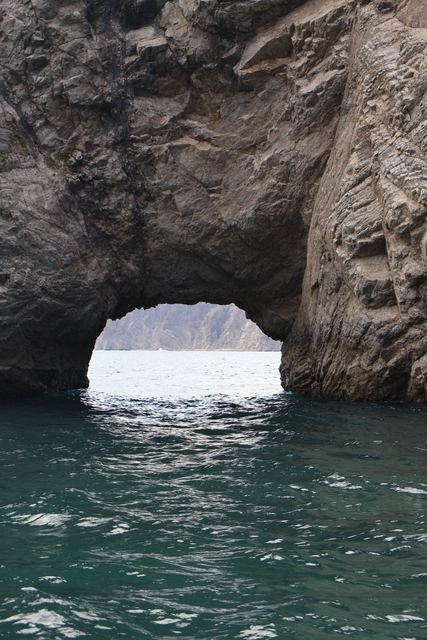
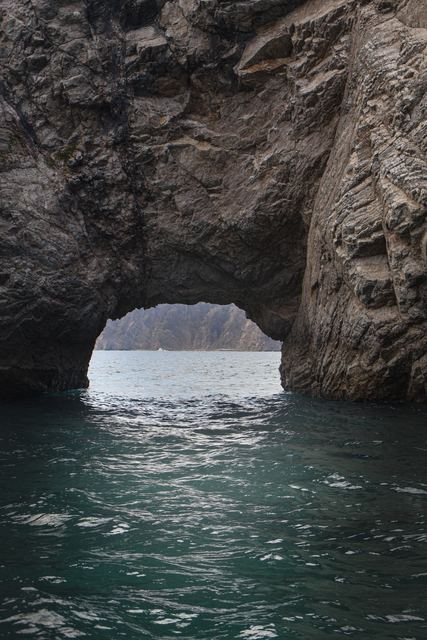
Obras nuevas (Agua-rela 2, Ciudad Emblemática) y foto nueva de Permeable
Claude-Session: https://claude.ai/code/session_01XampmMridXLsrxnCMyLnPp

diff --git a/index.html b/index.html
@@ -353,7 +353,7 @@ footer.bottom{padding:24px clamp(16px,3vw,48px) calc(24px + env(safe-area-inset-
   <button class="pv" id="lbPv" aria-label="Foto anterior"><svg width="20" height="20" viewBox="0 0 24 24" fill="none" stroke="currentColor" stroke-width="1.8" stroke-linecap="round" stroke-linejoin="round" aria-hidden="true"><path d="M15 6l-6 6 6 6"/></svg></button>
   <button class="nx" id="lbNx" aria-label="Foto siguiente"><svg width="20" height="20" viewBox="0 0 24 24" fill="none" stroke="currentColor" stroke-width="1.8" stroke-linecap="round" stroke-linejoin="round" aria-hidden="true"><path d="M9 6l6 6-6 6"/></svg></button>
 </div>
-<script id="data" type="application/json">{"works": [{"id": "ejemplo", "t": "Hojitas", "serie": "Jardin Mágico", "year": 2026, "when": "Primavera", "place": "Tigre, Buenos Aires, Argentina", "short": "Tigre", "country": "Argentina", "region": "Buenos Aires", "lat": -34.4264, "lon": -58.5796, "coords": "34°26′S 58°35′O", "fmt": "h", "ar": 1.5, "img": "img/img-8170.jpg", "sm": "img/img-8170-sm.jpg", "edge": "#1e1f12", "edgeD": "#18180e", "tones": ["verde"], "moods": ["calma", "movimiento"], "text": "", "story": ""}, {"id": "7m99oodxvws98zthk22s", "t": "Flore-SER", "serie": "Jardin Mágico", "year": 2026, "when": "Primavera", "place": "Tigre, Buenos Aires, Argentina", "short": "Tigre", "country": "Argentina", "region": "Buenos Aires", "lat": -34.4264, "lon": -58.5796, "coords": "34°26′S 58°35′O", "fmt": "h", "ar": 1.5, "img": "img/img-8211.jpg", "sm": "img/img-8211-sm.jpg", "edge": "#171514", "edgeD": "#121010", "tones": ["oscuro", "magenta"], "moods": ["movimiento"], "text": "Creciendo, en constante movimiento.", "story": ""}, {"id": "v6zu1fnsragvl1bk6tf3", "t": "Espíritu", "serie": "Jardin Mágico", "year": 2026, "when": "Primavera", "place": "Tigre, Buenos Aires, Argentina", "short": "Tigre", "country": "Argentina", "region": "Buenos Aires", "lat": -34.4264, "lon": -58.5796, "coords": "34°26′S 58°35′O", "fmt": "h", "ar": 1.5, "img": "img/img-8150.jpg", "sm": "img/img-8150-sm.jpg", "edge": "#131311", "edgeD": "#0f0f0d", "tones": ["oscuro"], "moods": ["movimiento"], "text": "", "story": ""}, {"id": "5v5q9rmd4a7l716ln7lj", "t": "Arcoiris", "serie": "Atardecer", "year": 2026, "when": "Atardecer", "place": "Santa Teresa, Costa Rica", "short": "Santa Teresa", "country": "Costa Rica", "region": "Costa Rica", "lat": 9.6436, "lon": -85.1683, "coords": "9°39′N 85°10′O", "fmt": "h", "ar": 1.5, "img": "img/img-4581.jpg", "sm": "img/img-4581-sm.jpg", "edge": "#a7675b", "edgeD": "#855248", "tones": ["cálido"], "moods": ["calma"], "text": "Observando, somos creadores de la obra", "story": ""}, {"id": "tcfef9lt981iuam9v10g", "t": "Expansión Naranja", "serie": "Atardecer", "year": 2026, "when": "", "place": "Santa Teresa, Costa Rica", "short": "Santa Teresa", "country": "Costa Rica", "region": "Costa Rica", "lat": 9.6436, "lon": -85.1683, "coords": "9°39′N 85°10′O", "fmt": "v", "ar": 0.6667, "img": "img/img-5085.jpg", "sm": "img/img-5085-sm.jpg", "edge": "#744016", "edgeD": "#5c3311", "tones": ["cálido"], "moods": ["calma"], "text": "", "story": ""}, {"id": "v93yowcrwlio0occ4g5k", "t": "Inmersos", "serie": "Atardecer", "year": null, "when": "", "place": "Playa Venao, Panamá", "short": "Playa Venao", "country": "Panamá", "region": "Panamá", "lat": 7.4337, "lon": -80.1914, "coords": "7°26′N 80°11′O", "fmt": "v", "ar": 0.6667, "img": "img/img-2910.jpg", "sm": "img/img-2910-sm.jpg", "edge": "#4d270b", "edgeD": "#3d1f08", "tones": ["cálido"], "moods": ["calma"], "text": "", "story": ""}, {"id": "wu83h3kot0ow2doi3nze", "t": "Infinidad Acuatica", "serie": "Mar", "year": null, "when": "", "place": "San Blas, Panamá", "short": "San Blas", "country": "Panamá", "region": "Panamá", "lat": 9.5594, "lon": -78.9481, "coords": "9°34′N 78°57′O", "fmt": "h", "ar": 1.5, "img": "img/img-2301.jpg", "sm": "img/img-2301-sm.jpg", "edge": "#5a646e", "edgeD": "#485058", "tones": ["azul"], "moods": ["inmensidad", "nostalgia"], "text": "", "story": ""}, {"id": "d8xsnhwkibspm1gs7ye7", "t": "Infimos", "serie": "Mar", "year": 2025, "when": "", "place": "San Francisco, California, EE.UU.", "short": "San Francisco", "country": "Estados Unidos", "region": "California", "lat": 37.7599, "lon": -122.5107, "coords": "37°46′N 122°31′O", "fmt": "v", "ar": 0.6667, "img": "img/img-1695.jpg", "sm": "img/img-1695-sm.jpg", "edge": "#5f6669", "edgeD": "#4c5154", "tones": ["azul"], "moods": ["inmensidad"], "text": "Bailar con confianza, ante tanta inmensidad.", "story": ""}, {"id": "segvv79u0fh8eog51isr", "t": "Navegar", "serie": "Mar", "year": 2026, "when": "", "place": "San Blas, Panamá", "short": "San Blas", "country": "Panamá", "region": "Panamá", "lat": 9.5594, "lon": -78.9481, "coords": "9°34′N 78°57′O", "fmt": "v", "ar": 0.6667, "img": "img/img-2220.jpg", "sm": "img/img-2220-sm.jpg", "edge": "#8a9db3", "edgeD": "#6e7d8f", "tones": ["azul"], "moods": ["nostalgia"], "text": "", "story": ""}, {"id": "l3hwykl52erjsmdvd342", "t": "Huellas", "serie": "Playa", "year": null, "when": "", "place": "Puerto Viejo, Costa Rica", "short": "Puerto Viejo", "country": "Costa Rica", "region": "Costa Rica", "lat": 9.6563, "lon": -82.7539, "coords": "9°39′N 82°45′O", "fmt": "v", "ar": 0.6667, "img": "img/img-2618.jpg", "sm": "img/img-2618-sm.jpg", "edge": "#817d79", "edgeD": "#676460", "tones": ["arena"], "moods": ["silencio"], "text": "", "story": ""}, {"id": "2hh2komrnwdbq5esv0x3", "t": "Evolución", "serie": "Portal", "year": null, "when": "", "place": "Playa Venao, Panamá", "short": "Playa Venao", "country": "Panamá", "region": "Panamá", "lat": 7.4337, "lon": -80.1914, "coords": "7°26′N 80°11′O", "fmt": "h", "ar": 1.5, "img": "img/img-2631.jpg", "sm": "img/img-2631-sm.jpg", "edge": "#3f3935", "edgeD": "#322d2a", "tones": ["oscuro"], "moods": ["silencio"], "text": "", "story": ""}, {"id": "1cru13s1yb15cx7n9nme", "t": "Versiones que conviven", "serie": "Postal", "year": null, "when": "", "place": "Río de Janeiro, Brasil", "short": "Río de Janeiro", "country": "Brasil", "region": "Brasil", "lat": -22.9068, "lon": -43.1729, "coords": "22°54′S 43°10′O", "fmt": "h", "ar": 1.5, "img": "img/img-6921.jpg", "sm": "img/img-6921-sm.jpg", "edge": "#47494d", "edgeD": "#383a3d", "tones": ["oscuro"], "moods": ["silencio"], "text": "", "story": ""}, {"id": "6kw532zf5z31ys35lora", "t": "Tantos ángulos", "serie": "Postal", "year": null, "when": "", "place": "Golden Gate, California, EE.UU.", "short": "Golden Gate", "country": "Estados Unidos", "region": "California", "lat": 37.8199, "lon": -122.4783, "coords": "37°49′N 122°29′O", "fmt": "v", "ar": 0.6667, "img": "img/img-1708.jpg", "sm": "img/img-1708-sm.jpg", "edge": "#575658", "edgeD": "#454446", "tones": ["cálido"], "moods": ["calma", "inmensidad", "nostalgia"], "text": "", "story": ""}, {"id": "krk9gi2kcvnhruij2sq1", "t": "Permeable", "serie": "Portal", "year": null, "when": "", "place": "Isla Tortuga, Costa Rica", "short": "Isla Tortuga", "country": "Costa Rica", "region": "Costa Rica", "lat": 9.7736, "lon": -84.8895, "coords": "9°46′N 84°53′O", "fmt": "v", "ar": 0.6667, "img": "img/img-3407.jpg", "sm": "img/img-3407-sm.jpg", "edge": "#525554", "edgeD": "#414443", "tones": ["azul"], "moods": [], "text": "", "story": ""}, {"id": "wno9w0kaa0o40x0wevrn", "t": "Agua-rela", "serie": "Agua", "year": null, "when": "", "place": "Tigre, Buenos Aires, Argentina", "short": "Tigre", "country": "Argentina", "region": "Buenos Aires", "lat": -34.4264, "lon": -58.5796, "coords": "34°26′S 58°35′O", "fmt": "h", "ar": 1.5, "img": "img/img-8106.jpg", "sm": "img/img-8106-sm.jpg", "edge": "#8e636e", "edgeD": "#714f58", "tones": ["magenta"], "moods": [], "text": "", "story": ""}, {"id": "nv7otj81e26y8iph5oax", "t": "Pausa Rutera", "serie": "Montaña", "year": 2026, "when": "", "place": "Tafí del Valle, Tucumán, Argentina", "short": "Tafí del Valle", "country": "Argentina", "region": "Tucumán", "lat": -26.8527, "lon": -65.7098, "coords": "26°51′S 65°43′O", "fmt": "h", "ar": 1.5, "img": "img/img-6454.jpg", "sm": "img/img-6454-sm.jpg", "edge": "#667b8f", "edgeD": "#516272", "tones": ["cálido"], "moods": ["silencio"], "text": "Me encanta el impulso de las balizas y frenar en ese km", "story": ""}, {"id": "36y1cy4sliuee3xus6vy", "t": "Paraíso Vintage", "serie": "Postal", "year": null, "when": "", "place": "Santa Teresa, Costa Rica", "short": "Santa Teresa", "country": "Costa Rica", "region": "Costa Rica", "lat": 9.6436, "lon": -85.1683, "coords": "9°39′N 85°10′O", "fmt": "h", "ar": 1.5, "img": "img/img-4106.jpg", "sm": "img/img-4106-sm.jpg", "edge": "#9d9d9d", "edgeD": "#7d7d7d", "tones": ["oscuro"], "moods": [], "text": "", "story": ""}], "config": {"name": "Josefina Goñi", "bio": "El atlas de mi viaje evolutivo, captura diversos rincones del mundo que me resonaron alguna vez.\nUn pedacito del mundo en mi mapa personal.", "whatsapp": "+5491153483183", "instagram": "josefinagoni__", "email": "josefinagoni02@gmail.com", "tagline": ""}, "sets": [{"name": "Díptico Jardin Mágico", "desc": "Hojitas + Flore-SER · horizontal 75×50", "works": [0, 1], "orient": "h", "frame": "negro", "mat": "sin"}, {"name": "Díptico Atardecer", "desc": "Expansión Naranja + Inmersos · vertical 50×75", "works": [4, 5], "orient": "v", "frame": "roble", "mat": "blanco"}], "tones": [{"id": null, "label": "Todos los tonos", "c": "conic-gradient(#4f7f95,#c9ae83,#c9683f,#a8437a,#6f8a5a,#26303a,#d9dedb,#4f7f95)"}, {"id": "azul", "label": "Azul", "c": "#4f7f95"}, {"id": "arena", "label": "Arena", "c": "#c9ae83"}, {"id": "cálido", "label": "Cálido", "c": "#c9683f"}, {"id": "magenta", "label": "Magenta", "c": "#a8437a"}, {"id": "verde", "label": "Verde", "c": "#6f8a5a"}, {"id": "oscuro", "label": "Oscuro", "c": "#26303a"}], "extent": {"lat0": 46, "lat1": -44, "lon0": -132.51069999999999, "lon1": -33.1729}, "oceans": [{"name": "Océano Pacífico", "lat": -8, "lon": -112}, {"name": "Océano Atlántico", "lat": 24, "lon": -68}]}</script>
+<script id="data" type="application/json">{"works": [{"id": "ejemplo", "t": "Hojitas", "serie": "Jardin Mágico", "year": 2026, "when": "Primavera", "place": "Tigre, Buenos Aires, Argentina", "short": "Tigre", "country": "Argentina", "region": "Buenos Aires", "lat": -34.4264, "lon": -58.5796, "coords": "34°26′S 58°35′O", "fmt": "h", "ar": 1.5, "img": "img/img-8170.jpg", "sm": "img/img-8170-sm.jpg", "edge": "#1e1f12", "edgeD": "#18180e", "tones": ["verde"], "moods": ["calma", "movimiento"], "text": "", "story": ""}, {"id": "7m99oodxvws98zthk22s", "t": "Flore-SER", "serie": "Jardin Mágico", "year": 2026, "when": "Primavera", "place": "Tigre, Buenos Aires, Argentina", "short": "Tigre", "country": "Argentina", "region": "Buenos Aires", "lat": -34.4264, "lon": -58.5796, "coords": "34°26′S 58°35′O", "fmt": "h", "ar": 1.5, "img": "img/img-8211.jpg", "sm": "img/img-8211-sm.jpg", "edge": "#171514", "edgeD": "#121010", "tones": ["oscuro", "magenta"], "moods": ["movimiento"], "text": "Creciendo, en constante movimiento.", "story": ""}, {"id": "v6zu1fnsragvl1bk6tf3", "t": "Espíritu", "serie": "Jardin Mágico", "year": 2026, "when": "Primavera", "place": "Tigre, Buenos Aires, Argentina", "short": "Tigre", "country": "Argentina", "region": "Buenos Aires", "lat": -34.4264, "lon": -58.5796, "coords": "34°26′S 58°35′O", "fmt": "h", "ar": 1.5, "img": "img/img-8150.jpg", "sm": "img/img-8150-sm.jpg", "edge": "#131311", "edgeD": "#0f0f0d", "tones": ["oscuro"], "moods": ["movimiento"], "text": "", "story": ""}, {"id": "5v5q9rmd4a7l716ln7lj", "t": "Arcoiris", "serie": "Atardecer", "year": 2026, "when": "Atardecer", "place": "Santa Teresa, Costa Rica", "short": "Santa Teresa", "country": "Costa Rica", "region": "Costa Rica", "lat": 9.6436, "lon": -85.1683, "coords": "9°39′N 85°10′O", "fmt": "h", "ar": 1.5, "img": "img/img-4581.jpg", "sm": "img/img-4581-sm.jpg", "edge": "#a7675b", "edgeD": "#855248", "tones": ["cálido"], "moods": ["calma"], "text": "Observando, somos creadores de la obra", "story": ""}, {"id": "tcfef9lt981iuam9v10g", "t": "Expansión Naranja", "serie": "Atardecer", "year": 2026, "when": "", "place": "Santa Teresa, Costa Rica", "short": "Santa Teresa", "country": "Costa Rica", "region": "Costa Rica", "lat": 9.6436, "lon": -85.1683, "coords": "9°39′N 85°10′O", "fmt": "v", "ar": 0.6667, "img": "img/img-5085.jpg", "sm": "img/img-5085-sm.jpg", "edge": "#744016", "edgeD": "#5c3311", "tones": ["cálido"], "moods": ["calma"], "text": "", "story": ""}, {"id": "v93yowcrwlio0occ4g5k", "t": "Inmersos", "serie": "Atardecer", "year": null, "when": "", "place": "Playa Venao, Panamá", "short": "Playa Venao", "country": "Panamá", "region": "Panamá", "lat": 7.4337, "lon": -80.1914, "coords": "7°26′N 80°11′O", "fmt": "v", "ar": 0.6667, "img": "img/img-2910.jpg", "sm": "img/img-2910-sm.jpg", "edge": "#4d270b", "edgeD": "#3d1f08", "tones": ["cálido"], "moods": ["calma"], "text": "", "story": ""}, {"id": "wu83h3kot0ow2doi3nze", "t": "Infinidad Acuatica", "serie": "Mar", "year": null, "when": "", "place": "San Blas, Panamá", "short": "San Blas", "country": "Panamá", "region": "Panamá", "lat": 9.5594, "lon": -78.9481, "coords": "9°34′N 78°57′O", "fmt": "h", "ar": 1.5, "img": "img/img-2301.jpg", "sm": "img/img-2301-sm.jpg", "edge": "#5a646e", "edgeD": "#485058", "tones": ["azul"], "moods": ["inmensidad", "nostalgia"], "text": "", "story": ""}, {"id": "d8xsnhwkibspm1gs7ye7", "t": "Infimos", "serie": "Mar", "year": 2025, "when": "", "place": "San Francisco, California, EE.UU.", "short": "San Francisco", "country": "Estados Unidos", "region": "California", "lat": 37.7599, "lon": -122.5107, "coords": "37°46′N 122°31′O", "fmt": "v", "ar": 0.6667, "img": "img/img-1695.jpg", "sm": "img/img-1695-sm.jpg", "edge": "#5f6669", "edgeD": "#4c5154", "tones": ["azul"], "moods": ["inmensidad"], "text": "Bailar con confianza, ante tanta inmensidad.", "story": ""}, {"id": "segvv79u0fh8eog51isr", "t": "Navegar", "serie": "Mar", "year": 2026, "when": "", "place": "San Blas, Panamá", "short": "San Blas", "country": "Panamá", "region": "Panamá", "lat": 9.5594, "lon": -78.9481, "coords": "9°34′N 78°57′O", "fmt": "v", "ar": 0.6667, "img": "img/img-2220.jpg", "sm": "img/img-2220-sm.jpg", "edge": "#8a9db3", "edgeD": "#6e7d8f", "tones": ["azul"], "moods": ["nostalgia"], "text": "", "story": ""}, {"id": "l3hwykl52erjsmdvd342", "t": "Huellas", "serie": "Playa", "year": null, "when": "", "place": "Puerto Viejo, Costa Rica", "short": "Puerto Viejo", "country": "Costa Rica", "region": "Costa Rica", "lat": 9.6563, "lon": -82.7539, "coords": "9°39′N 82°45′O", "fmt": "v", "ar": 0.6667, "img": "img/img-2618.jpg", "sm": "img/img-2618-sm.jpg", "edge": "#817d79", "edgeD": "#676460", "tones": ["arena"], "moods": ["silencio"], "text": "", "story": ""}, {"id": "2hh2komrnwdbq5esv0x3", "t": "Evolución", "serie": "Portal", "year": null, "when": "", "place": "Playa Venao, Panamá", "short": "Playa Venao", "country": "Panamá", "region": "Panamá", "lat": 7.4337, "lon": -80.1914, "coords": "7°26′N 80°11′O", "fmt": "h", "ar": 1.5, "img": "img/img-2631.jpg", "sm": "img/img-2631-sm.jpg", "edge": "#3f3935", "edgeD": "#322d2a", "tones": ["oscuro"], "moods": ["silencio"], "text": "", "story": ""}, {"id": "1cru13s1yb15cx7n9nme", "t": "Versiones que conviven", "serie": "Postal", "year": null, "when": "", "place": "Río de Janeiro, Brasil", "short": "Río de Janeiro", "country": "Brasil", "region": "Brasil", "lat": -22.9068, "lon": -43.1729, "coords": "22°54′S 43°10′O", "fmt": "h", "ar": 1.5, "img": "img/img-6921.jpg", "sm": "img/img-6921-sm.jpg", "edge": "#47494d", "edgeD": "#383a3d", "tones": ["oscuro"], "moods": ["silencio"], "text": "", "story": ""}, {"id": "6kw532zf5z31ys35lora", "t": "Tantos ángulos", "serie": "Postal", "year": null, "when": "", "place": "Golden Gate, California, EE.UU.", "short": "Golden Gate", "country": "Estados Unidos", "region": "California", "lat": 37.8199, "lon": -122.4783, "coords": "37°49′N 122°29′O", "fmt": "v", "ar": 0.6667, "img": "img/img-1708.jpg", "sm": "img/img-1708-sm.jpg", "edge": "#575658", "edgeD": "#454446", "tones": ["cálido"], "moods": ["calma", "inmensidad", "nostalgia"], "text": "", "story": ""}, {"id": "krk9gi2kcvnhruij2sq1", "t": "Permeable", "serie": "Portal", "year": null, "when": "", "place": "Isla Tortuga, Costa Rica", "short": "Isla Tortuga", "country": "Costa Rica", "region": "Costa Rica", "lat": 9.7736, "lon": -84.8895, "coords": "9°46′N 84°53′O", "fmt": "v", "ar": 0.6667, "img": "img/img-3407.jpg", "sm": "img/img-3407-sm.jpg", "edge": "#474948", "edgeD": "#383a39", "tones": ["azul"], "moods": [], "text": "", "story": ""}, {"id": "wno9w0kaa0o40x0wevrn", "t": "Agua-rela", "serie": "Agua", "year": null, "when": "", "place": "Tigre, Buenos Aires, Argentina", "short": "Tigre", "country": "Argentina", "region": "Buenos Aires", "lat": -34.4264, "lon": -58.5796, "coords": "34°26′S 58°35′O", "fmt": "h", "ar": 1.5, "img": "img/img-8106.jpg", "sm": "img/img-8106-sm.jpg", "edge": "#8e636e", "edgeD": "#714f58", "tones": ["magenta"], "moods": [], "text": "", "story": ""}, {"id": "nv7otj81e26y8iph5oax", "t": "Pausa Rutera", "serie": "Montaña", "year": 2026, "when": "", "place": "Tafí del Valle, Tucumán, Argentina", "short": "Tafí del Valle", "country": "Argentina", "region": "Tucumán", "lat": -26.8527, "lon": -65.7098, "coords": "26°51′S 65°43′O", "fmt": "h", "ar": 1.5, "img": "img/img-6454.jpg", "sm": "img/img-6454-sm.jpg", "edge": "#667b8f", "edgeD": "#516272", "tones": ["cálido"], "moods": ["silencio"], "text": "Me encanta el impulso de las balizas y frenar en ese km", "story": ""}, {"id": "36y1cy4sliuee3xus6vy", "t": "Paraíso Vintage", "serie": "Postal", "year": null, "when": "", "place": "Santa Teresa, Costa Rica", "short": "Santa Teresa", "country": "Costa Rica", "region": "Costa Rica", "lat": 9.6436, "lon": -85.1683, "coords": "9°39′N 85°10′O", "fmt": "h", "ar": 1.5, "img": "img/img-4106.jpg", "sm": "img/img-4106-sm.jpg", "edge": "#9d9d9d", "edgeD": "#7d7d7d", "tones": ["oscuro"], "moods": [], "text": "", "story": ""}, {"id": "9xvunk0iii1dsx0mnog8", "t": "Agua-rela", "serie": "Agua", "year": 2026, "when": "", "place": "Tigre, Buenos Aires, Argentina", "short": "Tigre", "country": "Argentina", "region": "Buenos Aires", "lat": -34.4264, "lon": -58.5796, "coords": "34°26′S 58°35′O", "fmt": "h", "ar": 1.5, "img": "img/img-8106-4.jpg", "sm": "img/img-8106-4-sm.jpg", "edge": "#3b3b3b", "edgeD": "#2f2f2f", "tones": ["oscuro"], "moods": [], "text": "", "story": ""}, {"id": "kypawh97mbgtj49nok9p", "t": "Ciudad Emblemática", "serie": "Postal", "year": 2026, "when": "", "place": "Obelisco, Buenos Aires, Argentina", "short": "Obelisco", "country": "Argentina", "region": "Buenos Aires", "lat": -34.6037, "lon": -58.3816, "coords": "34°36′S 58°23′O", "fmt": "v", "ar": 0.6666, "img": "img/img-8616.jpg", "sm": "img/img-8616-sm.jpg", "edge": "#393939", "edgeD": "#2d2d2d", "tones": ["oscuro"], "moods": [], "text": "Entre tanta novedad, historia y movimiento, soy turista de mi icónica ciudad natal.", "story": ""}], "config": {"name": "Josefina Goñi", "bio": "El atlas de mi viaje evolutivo, captura diversos rincones del mundo que me resonaron alguna vez. \nUn pedacito del mundo en mi mapa personal. ", "whatsapp": "+5491153483183", "instagram": "josefinagoni__", "email": "josefinagoni02@gmail.com", "tagline": ""}, "sets": [{"name": "Díptico Jardin Mágico", "desc": "Hojitas + Flore-SER · horizontal 75×50", "works": [0, 1], "orient": "h", "frame": "negro", "mat": "sin"}, {"name": "Díptico Atardecer", "desc": "Expansión Naranja + Inmersos · vertical 50×75", "works": [4, 5], "orient": "v", "frame": "roble", "mat": "blanco"}], "tones": [{"id": null, "label": "Todos los tonos", "c": "conic-gradient(#4f7f95,#c9ae83,#c9683f,#a8437a,#6f8a5a,#26303a,#d9dedb,#4f7f95)"}, {"id": "azul", "label": "Azul", "c": "#4f7f95"}, {"id": "arena", "label": "Arena", "c": "#c9ae83"}, {"id": "cálido", "label": "Cálido", "c": "#c9683f"}, {"id": "magenta", "label": "Magenta", "c": "#a8437a"}, {"id": "verde", "label": "Verde", "c": "#6f8a5a"}, {"id": "oscuro", "label": "Oscuro", "c": "#26303a"}], "extent": {"lat0": 46, "lat1": -44, "lon0": -132.51069999999999, "lon1": -33.1729}, "oceans": [{"name": "Océano Pacífico", "lat": -8, "lon": -112}, {"name": "Océano Atlántico", "lat": 24, "lon": -68}]}</script>
 <script>
 (() => {
   const D = JSON.parse(document.getElementById('data').textContent);

diff --git a/src/build.py b/src/build.py
@@ -21,11 +21,14 @@ LUGARES = {
     'golden gate': (37.8199, -122.4783, 'Golden Gate', 'Estados Unidos'),
     'san francisco': (37.7599, -122.5107, 'San Francisco', 'Estados Unidos'),
     'tigre': (-34.4264, -58.5796, 'Tigre', 'Argentina'),
+    'obelisco': (-34.6037, -58.3816, 'Obelisco', 'Argentina'),
+    'capital federal': (-34.6037, -58.3816, 'Obelisco', 'Argentina'),
+    'caba': (-34.6037, -58.3816, 'Obelisco', 'Argentina'),
     'tafí': (-26.8527, -65.7098, 'Tafí del Valle', 'Argentina'),
     'tafi': (-26.8527, -65.7098, 'Tafí del Valle', 'Argentina'),
 }
 REGION_TXT = {'Estados Unidos': 'California, EE.UU.', 'Argentina': 'Buenos Aires, Argentina'}
-REGION = {'golden gate': 'California', 'san francisco': 'California', 'tigre': 'Buenos Aires', 'tafí': 'Tucumán', 'tafi': 'Tucumán'}
+REGION = {'obelisco': 'Buenos Aires', 'capital federal': 'Buenos Aires', 'caba': 'Buenos Aires', 'golden gate': 'California', 'san francisco': 'California', 'tigre': 'Buenos Aires', 'tafí': 'Tucumán', 'tafi': 'Tucumán'}
 TONOS = [
     {'id': None, 'label': 'Todos los tonos', 'c': 'conic-gradient(#4f7f95,#c9ae83,#c9683f,#a8437a,#6f8a5a,#26303a,#d9dedb,#4f7f95)'},
     {'id': 'azul', 'label': 'Azul', 'c': '#4f7f95'},
